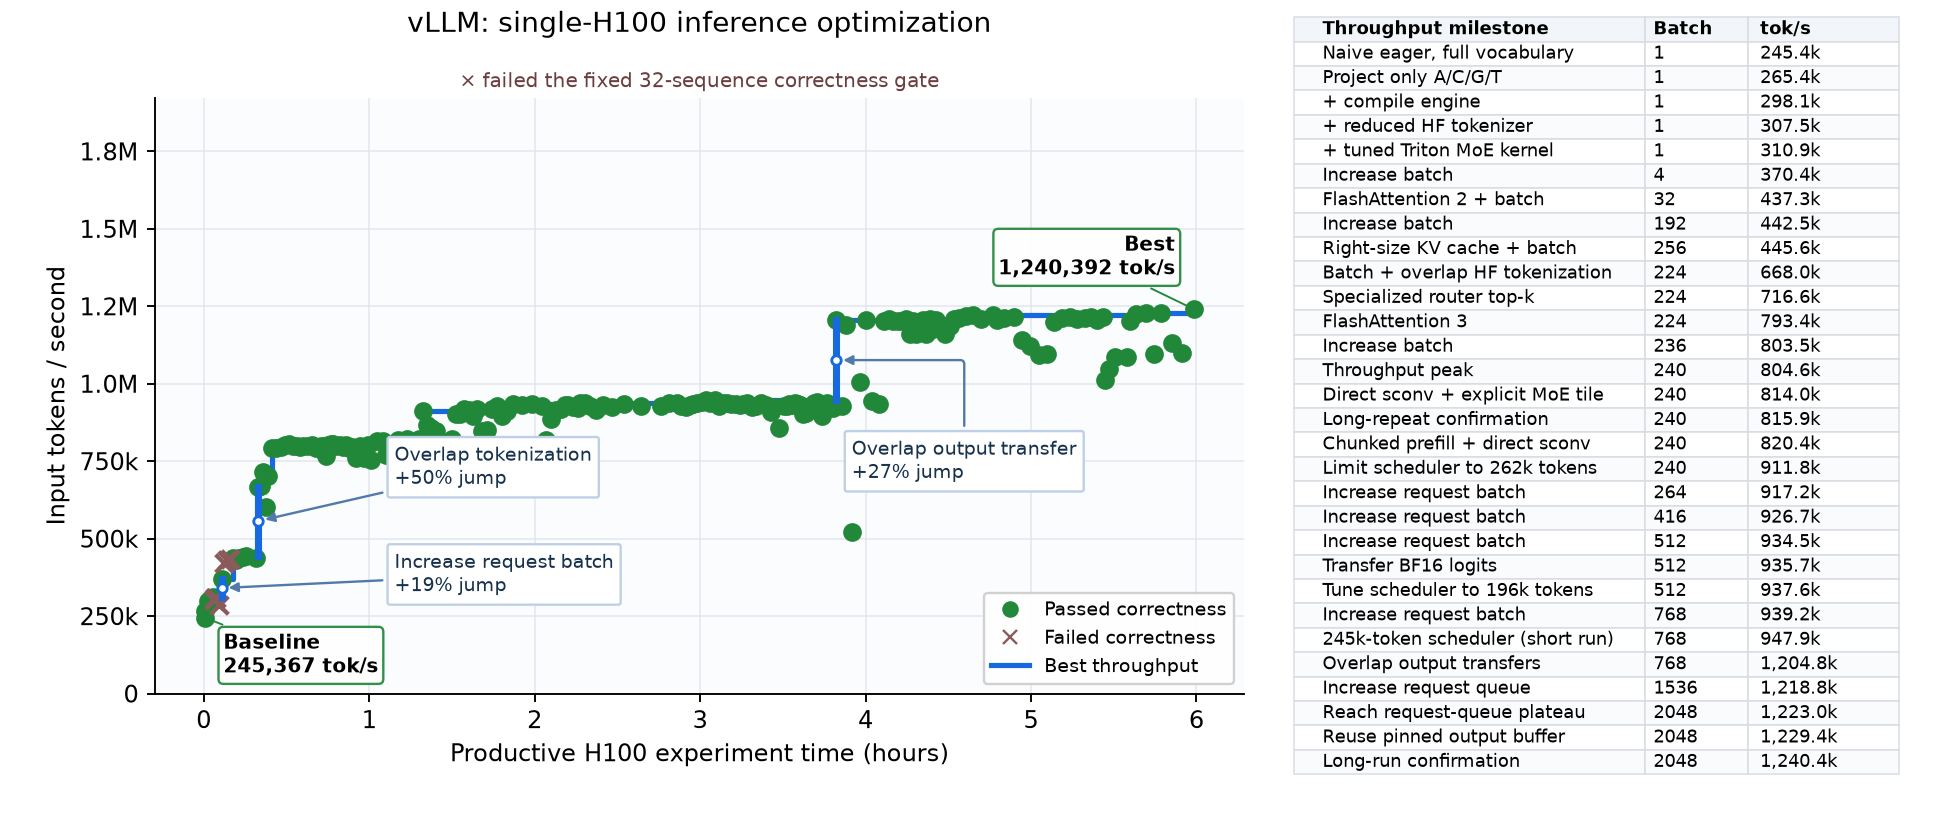
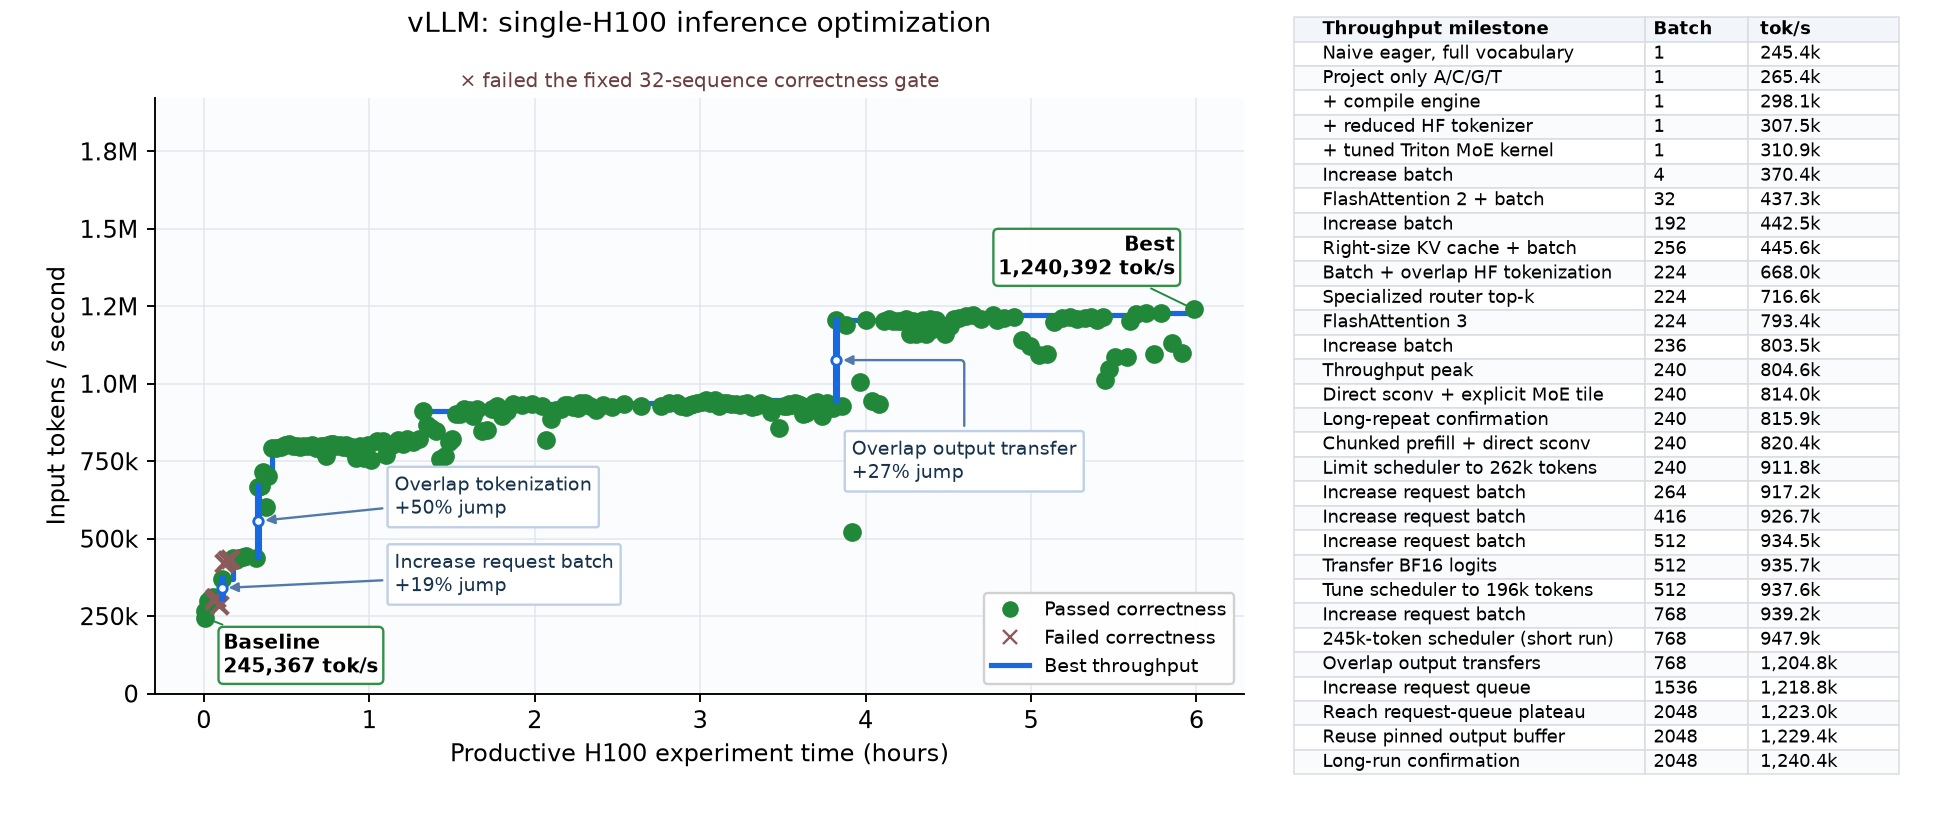
Space vLLM tokenization callout

Changed region(s): [[0.1238, 0.5208, 0.3096, 0.674]]

diff --git a/experiments/exp586_plantcad2_moe/src/exp586_moe/inference/plot_progress.py b/experiments/exp586_plantcad2_moe/src/exp586_moe/inference/plot_progress.py
@@ -106,7 +106,7 @@ _ANNOTATED_JUMPS = {
     },
     "vllm": {
         "compiled-triton-bm64-b4": ("Increase request batch", (0.22, 0.20)),
-        "vllm-latest-tokenize-b224": ("Overlap tokenization", (0.22, 0.38)),
+        "vllm-latest-tokenize-b224": ("Overlap tokenization", (0.22, 0.33)),
         "vLLM-r6-async-transfer-b768": ("Overlap output transfer", (0.64, 0.39)),
     },
 }
